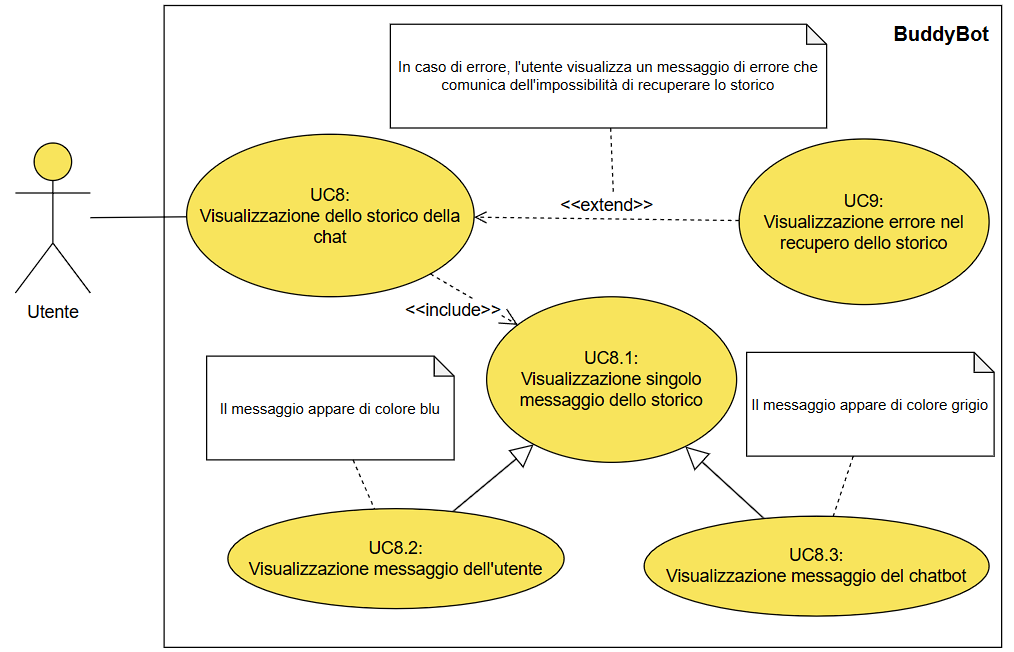
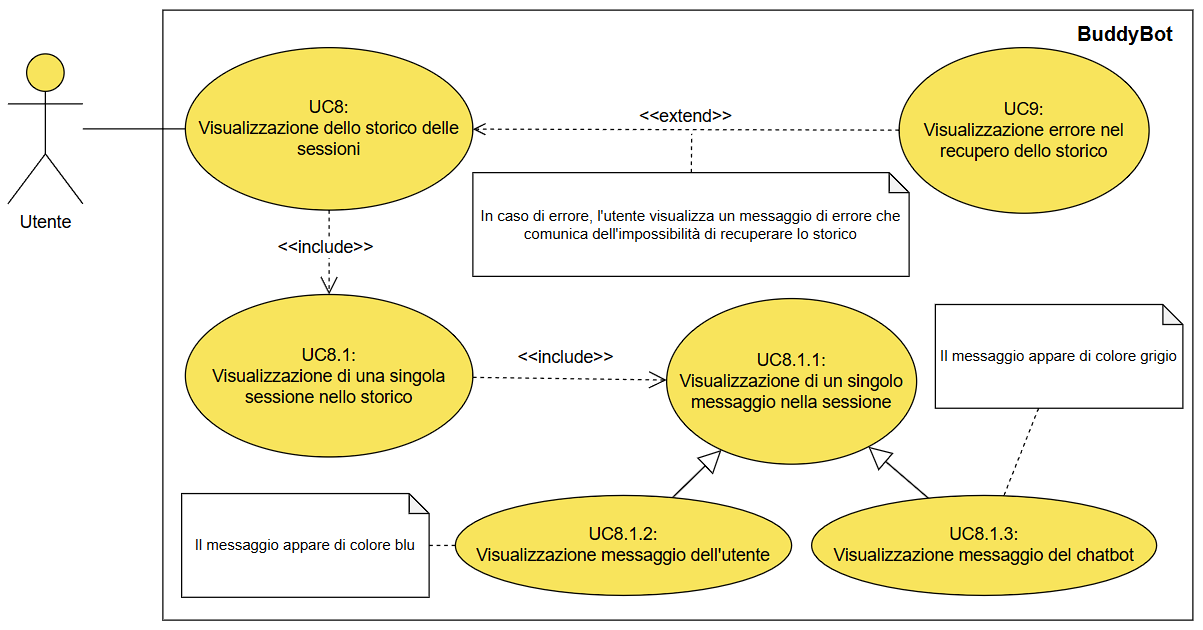
[BUD-268] Trascrizione nell'Analisi dei Requisiti del nuovo caso d'uso di visualizzazione messaggi di una sessione

diff --git a/src/PB/Documentazione esterna/Analisi dei Requisiti/contenuti/casi_uso.tex b/src/PB/Documentazione esterna/Analisi dei Requisiti/contenuti/casi_uso.tex
@@ -332,28 +332,28 @@ L’applicazione prevede la presenza di due \emph{Attori}\textsubscript{\textbf{
 
 
 \hypertarget{UC8}{}
-\subsubsection{UC8: Visualizzazione dello storico della chat}
+\subsubsection{UC8: Visualizzazione dello storico delle sessioni}
 
 \begin{figure}[h]
     \centering
     \includegraphics[width=\textwidth]{UC8 + UC9.png}
-    \caption{Visualizzazione dello storico della chat}
+    \caption{Visualizzazione dello storico delle sessioni}
 \end{figure}
 
 \begin{itemize}
     \item \textbf{Attori principali}: Utente;
-    \item \textbf{Precondizioni}: Il sistema deve essere collegato a un database relazionale per memorizzare e recuperare lo storico della chat;
-    \item \textbf{Trigger}: L'utente desidera visualizzare lo storico della chat;
-    \item \textbf{Postcondizioni}: L'utente visualizza lo storico della chat;
+    \item \textbf{Precondizioni}: Il sistema deve essere collegato a un database relazionale per memorizzare e recuperare lo storico delle sessioni della chat;
+    \item \textbf{Trigger}: L'utente desidera visualizzare lo storico delle sessioni della chat;
+    \item \textbf{Postcondizioni}: L'utente visualizza lo storico delle sessioni della chat;
     \item \textbf{Scenario principale}:
     \begin{enumerate}
         \item L'utente avvia il sistema;
-        \item Il sistema recupera i messaggi dello storico della chat dal database relazionale e li mostra a schermo;
-        \item L'utente visualizza lo storico della chat.
+        \item Il sistema recupera i messaggi delle sessioni di chat tenutesi in passato dal database relazionale, e li stampa a schermo;
+        \item L'utente visualizza i messaggi dello storico della chat, divisi per sessione.
     \end{enumerate}
     \item \textbf{Sottocasi d'uso}:
     \begin{itemize}
-        \item \bulhyperlink{UC8.1}{UC8.1}: Visualizzazione singolo messaggio dello storico.
+        \item \bulhyperlink{UC8.1}{UC8.1}: Visualizzazione di una singola sessione nello storico.
     \end{itemize}
     \item \textbf{Scenario alternativo}:
     \begin{enumerate}
@@ -362,60 +362,86 @@ L’applicazione prevede la presenza di due \emph{Attori}\textsubscript{\textbf{
 \end{itemize}
 
 \hypertarget{UC8.1}{}
-\subsubsection{UC8.1: Visualizzazione singolo messaggio dello storico}
+\subsubsection{UC8.1: Visualizzazione di una singola sessione nello storico}
 \begin{itemize}
     \item \textbf{Attori principali}: Utente;
-    \item \textbf{Precondizioni}: Il sistema deve essere collegato a un database relazionale per memorizzare e recuperare lo storico della chat;
-    \item \textbf{Trigger}: L'utente desidera visualizzare un singolo messaggio dello storico della chat;
-    \item \textbf{Postcondizioni}: L'utente visualizza un singolo messaggio dello storico della chat;
+    \item \textbf{Precondizioni}: Il sistema deve essere collegato a un database relazionale per memorizzare e recuperare lo storico delle sessioni della chat;
+    \item \textbf{Trigger}: L'utente desidera visualizzare una singola sessione nello storico della chat;
+    \item \textbf{Postcondizioni}: L'utente visualizza una singola sessione nello storico della chat;
     \item \textbf{Scenario principale}:
     \begin{enumerate}
         \item L'utente avvia il sistema;
-        \item Il sistema recupera il messaggio dal database relazionale e lo mostra a schermo;
-        \item L'utente visualizza il messaggio dello storico della chat.
+        \item Il sistema recupera i messaggi delle sessioni di chat tenutesi in passato dal database relazionale, e li stampa a schermo;
+        \item L'utente visualizza una singola sessione di messaggi, cioè la chat tenutasi in un singolo periodo in cui l'applicazione
+        è stata accesa e funzionante.
+    \end{enumerate}
+    \item \textbf{Sottocasi d'uso}:
+    \begin{itemize}
+        \item \bulhyperlink{UC8.1.1}{UC8.1.1}: Visualizzazione di un singolo messaggio nella sessione.
+    \end{itemize}
+\end{itemize}
+
+\hypertarget{UC8.1.1}{}
+\subsubsection{UC8.1.1: Visualizzazione di un singolo messaggio nella sessione}
+\begin{itemize}
+    \item \textbf{Attori principali}: Utente;
+    \item \textbf{Precondizioni}: Il sistema deve essere collegato a un database relazionale per memorizzare e recuperare lo storico delle sessioni della chat;
+    \item \textbf{Trigger}: L'utente desidera visualizzare un singolo messaggio di una sessione dello storico della chat;
+    \item \textbf{Postcondizioni}: L'utente visualizza un singolo messaggio di una sessione dello storico della chat;
+    \item \textbf{Scenario principale}:
+    \begin{enumerate}
+        \item L'utente avvia il sistema;
+        \item Il sistema recupera i messaggi delle sessioni di chat tenutesi in passato dal database relazionale, e li stampa a schermo;
+        \item L'utente visualizza una singola sessione di messaggi, cioè la chat tenutasi in un singolo periodo in cui l'applicazione
+        è stata accesa e funzionante;
+        \item L'utente visualizza un singolo messaggio di una sessione dello storico della chat.
     \end{enumerate}
     \item \textbf{Casi che ereditano}:
     \begin{itemize}
-        \item \bulhyperlink{UC8.2}{UC8.2}: Visualizzazione messaggio dell'utente;
-        \item \bulhyperlink{UC8.3}{UC8.3}: Visualizzazione messaggio del chatbot.
+        \item \bulhyperlink{UC8.1.2}{UC8.1.2}: Visualizzazione messaggio dell'utente;
+        \item \bulhyperlink{UC8.1.3}{UC8.1.3}: Visualizzazione messaggio del chatbot.
     \end{itemize}
 \end{itemize}
 
-\hypertarget{UC8.2}{}
-\subsubsection{UC8.2: Visualizzazione messaggio dell'utente}
+\hypertarget{UC8.1.2}{}
+\subsubsection{UC8.1.2: Visualizzazione messaggio dell'utente}
 \begin{itemize}
     \item \textbf{Attori principali}: Utente;
-    \item \textbf{Precondizioni}: Il sistema deve essere collegato a un database relazionale per memorizzare e recuperare lo storico della chat;
-    \item \textbf{Trigger}: L'utente desidera visualizzare un messaggio inviato da lui stesso nello storico della chat;
-    \item \textbf{Postcondizioni}: L'utente visualizza un messaggio inviato da lui stesso nello storico della chat;
+    \item \textbf{Precondizioni}: Il sistema deve essere collegato a un database relazionale per memorizzare e recuperare lo storico delle sessioni della chat;
+    \item \textbf{Trigger}: L'utente desidera visualizzare un messaggio inviato da lui stesso in una sessione dello storico della chat;
+    \item \textbf{Postcondizioni}: L'utente visualizza un messaggio inviato da lui stesso in una sessione dello storico della chat;
     \item \textbf{Scenario principale}:
     \begin{enumerate}
         \item L'utente avvia il sistema;
-        \item Il sistema recupera il messaggio inviato dall'utente dal database relazionale e lo mostra a schermo;
-        \item L'utente visualizza il messaggio inviato da lui stesso nello storico della chat.
+        \item Il sistema recupera i messaggi delle sessioni di chat tenutesi in passato dal database relazionale, e li stampa a schermo;
+        \item L'utente visualizza una singola sessione di messaggi, cioè la chat tenutasi in un singolo periodo in cui l'applicazione
+        è stata accesa e funzionante;
+        \item L'utente visualizza un messaggio inviato da lui stesso in una sessione dello storico della chat.
     \end{enumerate}
     \item \textbf{Eredita da}:
     \begin{itemize}
-        \item \bulhyperlink{UC8.1}{UC8.1}: Visualizzazione singolo messaggio dello storico.
+        \item \bulhyperlink{UC8.1.1}{UC8.1.1}: Visualizzazione di un singolo messaggio nella sessione.
     \end{itemize}
 \end{itemize}
 
-\hypertarget{UC8.3}{}
-\subsubsection{UC8.3: Visualizzazione messaggio del chatbot}
+\hypertarget{UC8.1.3}{}
+\subsubsection{UC8.1.3: Visualizzazione messaggio del chatbot}
 \begin{itemize}
     \item \textbf{Attori principali}: Utente;
-    \item \textbf{Precondizioni}: Il sistema deve essere collegato a un database relazionale per memorizzare e recuperare lo storico della chat;
-    \item \textbf{Trigger}: L'utente desidera visualizzare un messaggio inviato dal chatbot nello storico della chat;
-    \item \textbf{Postcondizioni}: L'utente visualizza un messaggio inviato dal chatbot nello storico della chat;
+    \item \textbf{Precondizioni}: Il sistema deve essere collegato a un database relazionale per memorizzare e recuperare lo storico delle sessioni della chat;
+    \item \textbf{Trigger}: L'utente desidera visualizzare un messaggio inviato dal chatbot in una sessione dello storico della chat;
+    \item \textbf{Postcondizioni}: L'utente visualizza un messaggio inviato dal chatbot in una sessione dello storico della chat;
     \item \textbf{Scenario principale}:
     \begin{enumerate}
         \item L'utente avvia il sistema;
-        \item Il sistema recupera il messaggio inviato dal chatbot dal database relazionale e lo mostra a schermo;
-        \item L'utente visualizza il messaggio inviato dal chatbot nello storico della chat.
+        \item Il sistema recupera i messaggi delle sessioni di chat tenutesi in passato dal database relazionale, e li stampa a schermo;
+        \item L'utente visualizza una singola sessione di messaggi, cioè la chat tenutasi in un singolo periodo in cui l'applicazione
+        è stata accesa e funzionante;
+        \item L'utente visualizza un messaggio inviato dal chatbot in una sessione dello storico della chat.
     \end{enumerate}
     \item \textbf{Eredita da}:
     \begin{itemize}
-        \item \bulhyperlink{UC8.1}{UC8.1}: Visualizzazione singolo messaggio dello storico.
+        \item \bulhyperlink{UC8.1.1}{UC8.1.1}: Visualizzazione di un singolo messaggio nella sessione.
     \end{itemize}
 \end{itemize}
 
@@ -424,14 +450,14 @@ L’applicazione prevede la presenza di due \emph{Attori}\textsubscript{\textbf{
 \subsubsection{UC9: Visualizzazione errore nel recupero dello storico}
 \begin{itemize}
     \item \textbf{Attori principali}: Utente;
-    \item \textbf{Precondizioni}: Il sistema deve essere collegato a un database relazionale per memorizzare e recuperare lo storico della chat;
-    \item \textbf{Trigger}: L'utente desidera visualizzare lo storico della chat;
-    \item \textbf{Postcondizioni}: Viene visualizzato un messaggio di errore riferendo che c'è stato un errore nel recupero dello storico;
+    \item \textbf{Precondizioni}: Il sistema deve essere collegato a un database relazionale per memorizzare e recuperare lo storico delle sessioni della chat;
+    \item \textbf{Trigger}: L'utente desidera visualizzare lo storico delle sessioni della chat;
+    \item \textbf{Postcondizioni}: L'utente visualizza un messaggio di avviso che riferisce che c'è stato un errore nel recupero dello storico;
     \item \textbf{Scenario principale}: 
     \begin{enumerate}
-        \item L'utente desidera visualizzare lo storico della chat;
+        \item L'utente avvia il sistema;
         \item Il sistema ha riscontrato un problema nel recupero dello storico dal database relazionale;
-        \item L'utente visualizza un messaggio di errore riferendo che c'è stato un errore nel recupero dello storico.
+        \item L'utente visualizza un messaggio di avviso che riferisce che c'è stato un errore nel recupero dello storico.
     \end{enumerate}
 \end{itemize}
 
